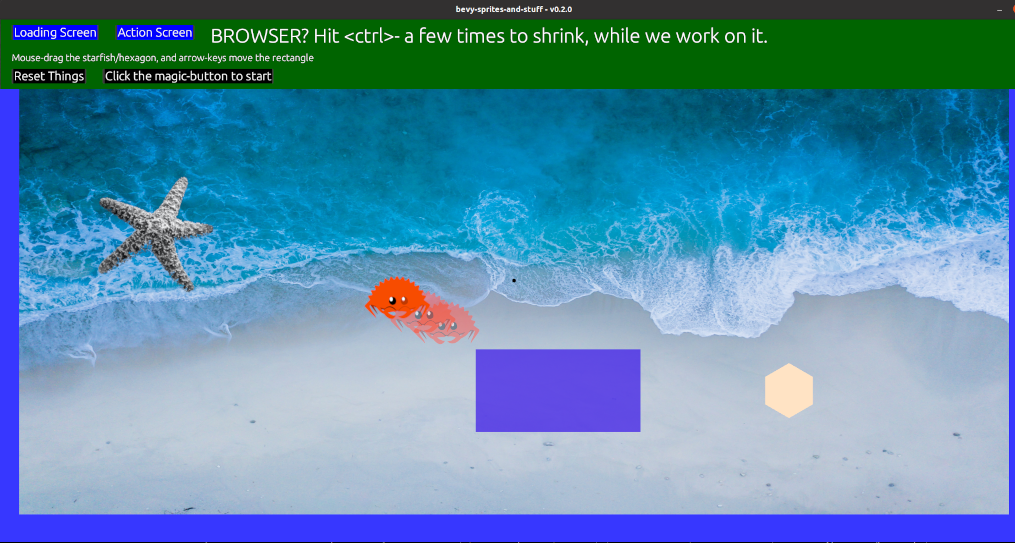
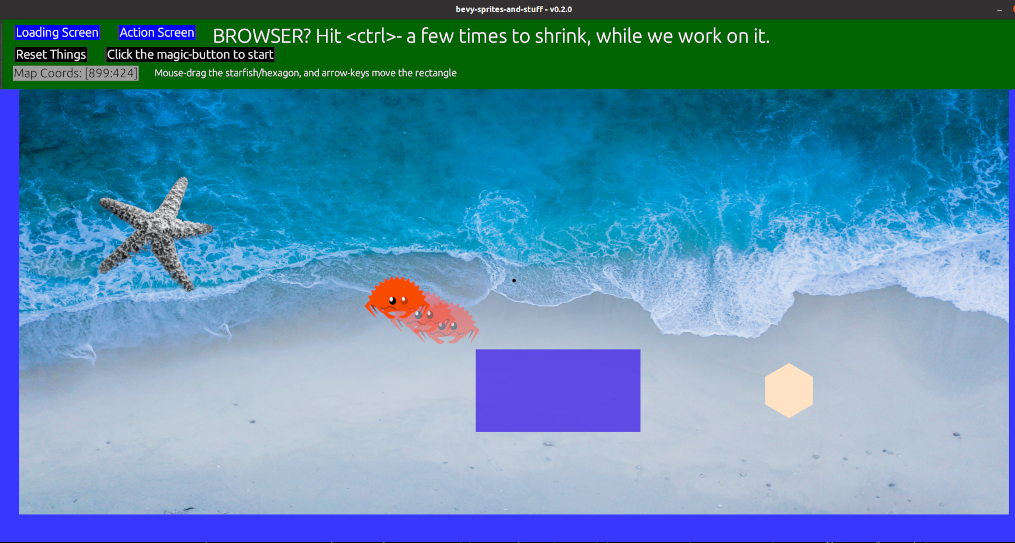
added on-map cursor-tracking, mainly experimenting

Changed region(s): [[0.0, 0.0295, 0.7635, 0.1768]]

diff --git a/src/my_egui.rs b/src/my_egui.rs
@@ -6,9 +6,10 @@ https://docs.rs/egui/latest/egui/
 use bevy::prelude::*;
 use bevy_egui::*;
 use egui::*;
-use crate::{GuiData, GameData};
+use crate::{GuiData, GameData, BackgroundMap};
 
-pub fn do_ui_setup(mut egui_context: ResMut<EguiContext>,
+pub fn do_ui_setup(the_map: Res<BackgroundMap>,
+                   mut egui_context: ResMut<EguiContext>,
                    mut random_data: ResMut<GuiData>,
                    mut move_active: ResMut<GameData>,
 ) {
@@ -23,7 +24,7 @@ pub fn do_ui_setup(mut egui_context: ResMut<EguiContext>,
         stroke: Default::default(),
     };
 
-    let big_text_lbl_1 = RichText::new("Mouse-drag the starfish/hexagon, and arrow-keys move the rectangle")
+    let intro_text = RichText::new("Mouse-drag the starfish/hexagon, and arrow-keys move the rectangle")
         .color(Color32::WHITE).font(FontId::proportional(20.0));
 
     let pause_string: String;
@@ -32,14 +33,22 @@ pub fn do_ui_setup(mut egui_context: ResMut<EguiContext>,
     } else {
         pause_string = "Click the magic-button to pause".parse().unwrap();
     }
-
-    let btn_text_1 = RichText::new(pause_string)
+    let pause_btn_txt = RichText::new(pause_string)
         .color(Color32::WHITE).background_color(Color32::BLACK).font(FontId::proportional(20.0)).size(25.0);
 
-    let btn_text_3 = RichText::new("Reset Things")
+    let coords_string: String;
+    if the_map.cursor_over_map {
+        coords_string = format!("Map Coords: [{:.0}:{:.0}]", the_map.cursor_on_map.x, the_map.cursor_on_map.y);
+    } else {
+        coords_string = format!("Off-Map Coords: [{:.0}:{:.0}]", the_map.cursor_on_map.x, the_map.cursor_on_map.y);
+    }
+    let coords_txt = RichText::new(coords_string)
+        .color(Color32::BLACK).background_color(Color32::GRAY).font(FontId::proportional(20.0)).size(25.0);
+
+    let reset_btn_txt = RichText::new("Reset Things")
         .color(Color32::WHITE).background_color(Color32::BLACK).font(FontId::proportional(20.0)).size(25.0);
 
-    let big_text_lbl_11 = RichText::new("BROWSER? Hit <ctrl>- a few times to shrink, while we work on it.")
+    let wasm_browser_txt = RichText::new("BROWSER? Hit <ctrl>- a few times to shrink, while we work on it.")
         .color(Color32::WHITE).font(FontId::proportional(40.0));
 
     TopBottomPanel::top("top panel?").min_height(80.0)
@@ -49,34 +58,35 @@ pub fn do_ui_setup(mut egui_context: ResMut<EguiContext>,
             ui.style_mut().spacing.item_spacing = egui::Vec2 {x: 30.0, y: 0.0};
 
             // Tab-panel
-            let tab_text_1 = RichText::new("Loading Screen")
+            let tab_load_screen = RichText::new("Loading Screen")
                 .color(Color32::WHITE).background_color(Color32::BLUE).font(FontId::proportional(20.0)).size(25.0);
-            let tab_text_2 = RichText::new("Action Screen")
+            let tab_action_screen = RichText::new("Action Screen")
                 .color(Color32::WHITE).background_color(Color32::BLUE).font(FontId::proportional(20.0)).size(25.0);
             ui.horizontal(|ui| {
-                if ui.button(tab_text_1).clicked() {
+                if ui.button(tab_load_screen).clicked() {
                     // move_active.game_status = move_active.game_status.cycle();
                 }
-                if ui.button(tab_text_2).clicked() {
-                    random_data.my_value += 1;
+                if ui.button(tab_action_screen).clicked() {
                     // move_active.is_paused = !move_active.is_paused;
                 }
-                ui.label(big_text_lbl_11);
+                ui.label(wasm_browser_txt);
             });
 
             ui.horizontal(|ui| {
-                // ui.heading("This is a Header (Label) that does nothing useful");
-                ui.add_sized([420.0, 40.0], Label::new(big_text_lbl_1));
-            });
-
-            ui.horizontal(|ui| {
-                if ui.button(btn_text_3).clicked() {
+                if ui.button(reset_btn_txt).clicked() {
                     move_active.game_status = move_active.game_status.cycle();
                 }
-                if ui.button(btn_text_1).clicked() {
+                if ui.button(pause_btn_txt).clicked() {
                     random_data.my_value += 1;
                     move_active.is_paused = !move_active.is_paused;
                 }
             });
+
+            ui.horizontal(|ui| {
+                // ui.heading("This is a Header (Label) that does nothing useful");
+                ui.add_sized([200.0, 40.0], Label::new(coords_txt));
+                ui.add_sized([420.0, 40.0], Label::new(intro_text));
+            });
+
     });
 }

diff --git a/src/mousing.rs b/src/mousing.rs
@@ -10,10 +10,11 @@ Currently, it looks like only things with a Material assigned, have a Color-Hand
 where Color has Alpha. So Sprites/SpriteSheetBundles, so far, don't look alpha-modifiable.
 */
 
+// use bevy::asset::Asset;
 use bevy::prelude::*;
 use bevy::render::camera::Camera;
 use bevy::render::camera;
-use crate::{DragPoint, HoverCraft, IsMousing};
+use crate::{BackgroundMap, DragPoint, HoverCraft, IsBackground, IsMousing};
 
 // fn print_type_of<T>(_: &T) {print!("{}", std::any::type_name::<T>())} // Unstable.
 
@@ -22,7 +23,7 @@ use crate::{DragPoint, HoverCraft, IsMousing};
 pub struct MainCamera;
 
 
-//pub fn check_colors(
+//pub fn check_colors(  // Well, that could have gone better...
 //    mut materials: ResMut<Assets<ColorMaterial>>,
 //    mut some_colors: Query<(Entity, &Handle<ColorMaterial>, &mut Transform,)>,
 //) {
@@ -31,6 +32,47 @@ pub struct MainCamera;
 //        println!("entity[{:?}]: color: {:?}, pos: {:?}", entity_id, color, some_pos.translation);
 //    }
 //}
+
+/*
+Will get mouse-coordinates, relative to map bottom-left corner.
+Assuming the Map is positioned at 0, 0 (center of map at center of screen)
+Not really used for anything yet, just experimenting.
+*/
+pub fn get_cursor_map_coords(
+    windows: Res<Windows>,
+    the_assets: Res<Assets<Image>>,
+    mut the_map: ResMut<BackgroundMap>,
+    my_camera: Query<(&Camera, &GlobalTransform), With<MainCamera>>,
+    any_map: Query<(Entity, &Handle<Image>), With<IsBackground>>,
+) {
+    // get the camera info and transform
+    // assuming there is exactly one main camera entity, so query::single() is OK
+    let (camera, camera_transform) = my_camera.single();
+    let some_window = windows.get_primary().unwrap();  // Here's hoping there's always a window...
+    let maybe_camera_pos = parse_camera_loc(camera, camera_transform, some_window);
+    if maybe_camera_pos.is_none() { return; }
+    let camera_pos = maybe_camera_pos.unwrap();
+
+    let (_entity_id, image_handle) = any_map.get_single().unwrap();  // Gosh, I sure hope there's only one map.
+    let maybe_map_image = the_assets.get(image_handle);
+    if maybe_map_image.is_none() {println!("wups - no map?"); return; }
+    let map_image = maybe_map_image.unwrap().size();
+
+    let map_offset_x = - map_image.x / 2.0;
+    let map_offset_y = - map_image.y / 2.0;
+    let rel_map_pos = Vec2 { x: camera_pos.x - map_offset_x, y: camera_pos.y - map_offset_y };
+        if (rel_map_pos.x >= 0.0) && (rel_map_pos.x <= map_image.x) &&
+           (rel_map_pos.y >= 0.0) && (rel_map_pos.y <= map_image.y)
+        {
+            the_map.cursor_over_map = true;
+            the_map.cursor_on_map = rel_map_pos;
+        }
+        else {
+            the_map.cursor_over_map = false;
+            the_map.cursor_on_map = rel_map_pos;
+        }
+}
+
 
 pub fn check_cursor_for_hover(
     windows: Res<Windows>,
@@ -45,7 +87,7 @@ pub fn check_cursor_for_hover(
     if maybe_camera_pos.is_none() { return; }
 
     let camera_pos = maybe_camera_pos.unwrap();
-    for (entity_id, mut hovering, mut some_sprite_pos) in any_hovercraft.iter_mut() {
+    for (_entity_id, mut hovering, mut some_sprite_pos) in any_hovercraft.iter_mut() {
         if check_mouse_over_sprite(&some_sprite_pos, camera_pos) == true
         {
             hovering.is_hovering = true;

diff --git a/src/main.rs b/src/main.rs
@@ -42,7 +42,7 @@ fn main() {
 
         .insert_resource(GameData::default())
         .insert_resource(DragPoint::default())
-        .insert_resource(BackgroundMap { cur_map: OneBackground::Map1 })
+        .insert_resource(BackgroundMap::default())
 
         .add_startup_system(setup_sprites)
         .add_startup_system(setup_movers)
@@ -57,7 +57,7 @@ fn main() {
         .add_system(do_background_swap)
         .add_system(check_cursor_for_drag)
         .add_system(check_cursor_for_hover)
-        // .add_system(check_colors)
+        .add_system(get_cursor_map_coords)
         .run();
     println!("this is a test of the Bevy Engine - alas, this line is never reached, due to a bug");
 }

diff --git a/src/data.rs b/src/data.rs
@@ -55,6 +55,18 @@ impl OneBackground {
 // Resource for Background
 pub struct BackgroundMap {
     pub cur_map: OneBackground,
+    pub cursor_over_map: bool,
+    pub cursor_on_map: Vec2,
+}
+
+impl Default for BackgroundMap {
+    fn default() -> Self {
+        BackgroundMap {
+            cur_map: OneBackground::Map1,
+            cursor_over_map: false,
+            cursor_on_map: Vec2 { x: 0.0, y: 0.0 }
+        }
+    }
 }
 
 // There should only be one Sprite with this marker, or all hell might break loose.
